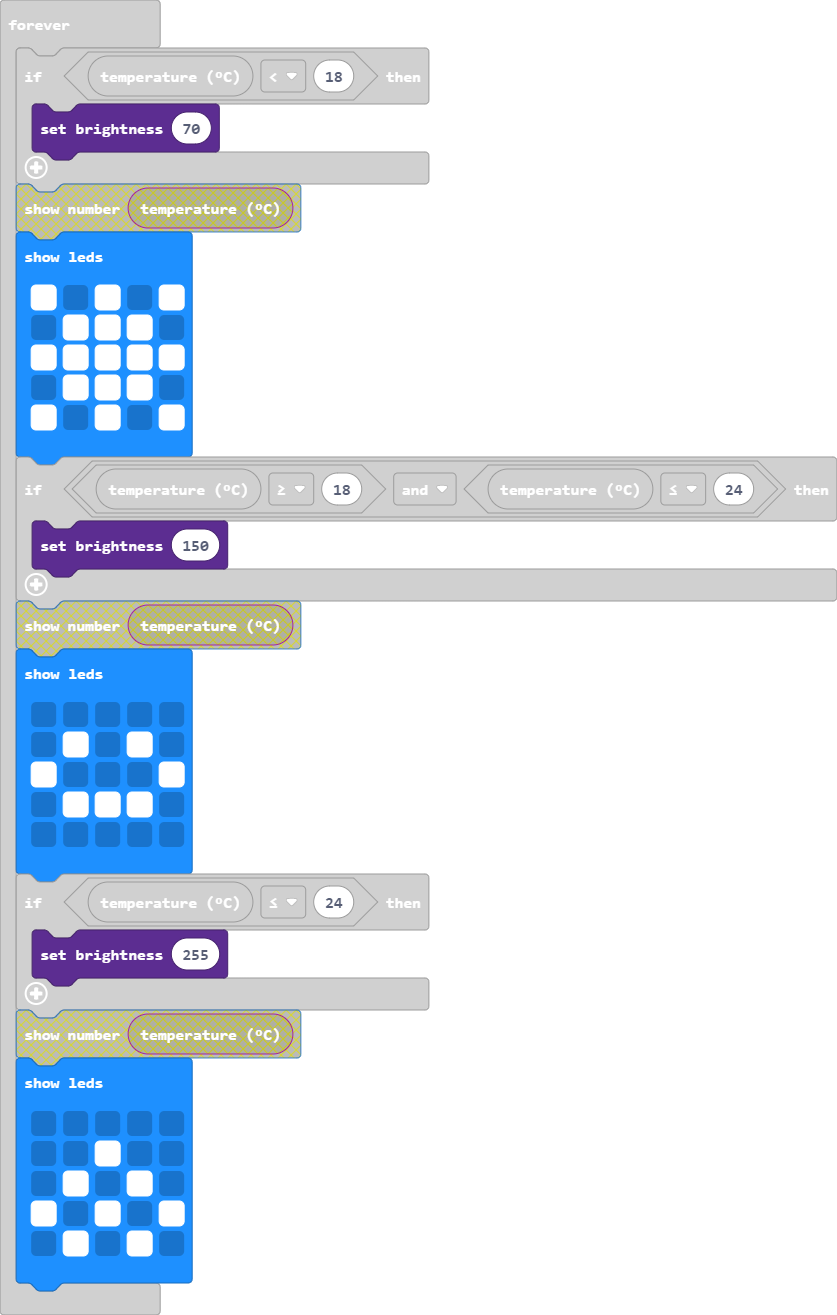
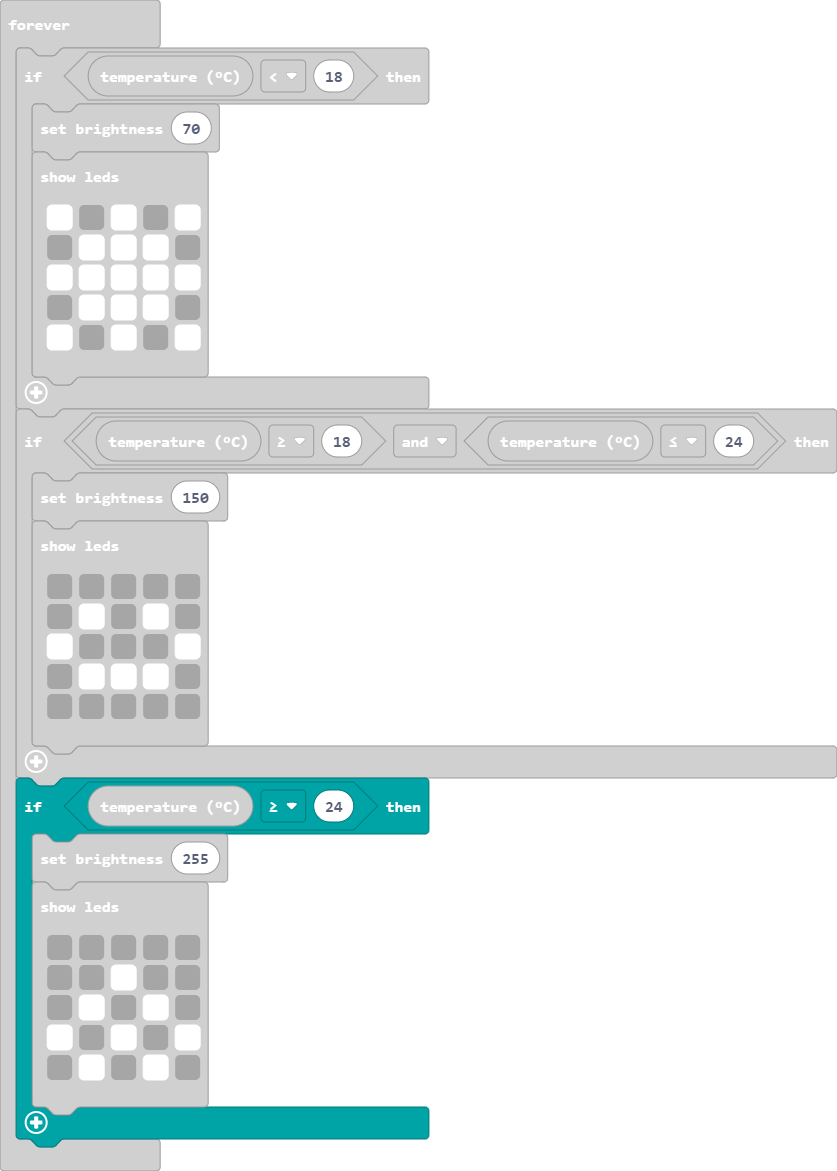
Update main.blocks, main.ts

Changed region(s): [[0.0, 0.0, 1.0, 0.9838]]

diff --git a/main.ts b/main.ts
@@ -35,7 +35,7 @@ basic.forever(function () {
             . . . . .
             `)
     }
-    if (input.temperature() <= 24) {
+    if (input.temperature() >= 24) {
         led.setBrightness(255)
         basic.showLeds(`
             . . . . .
